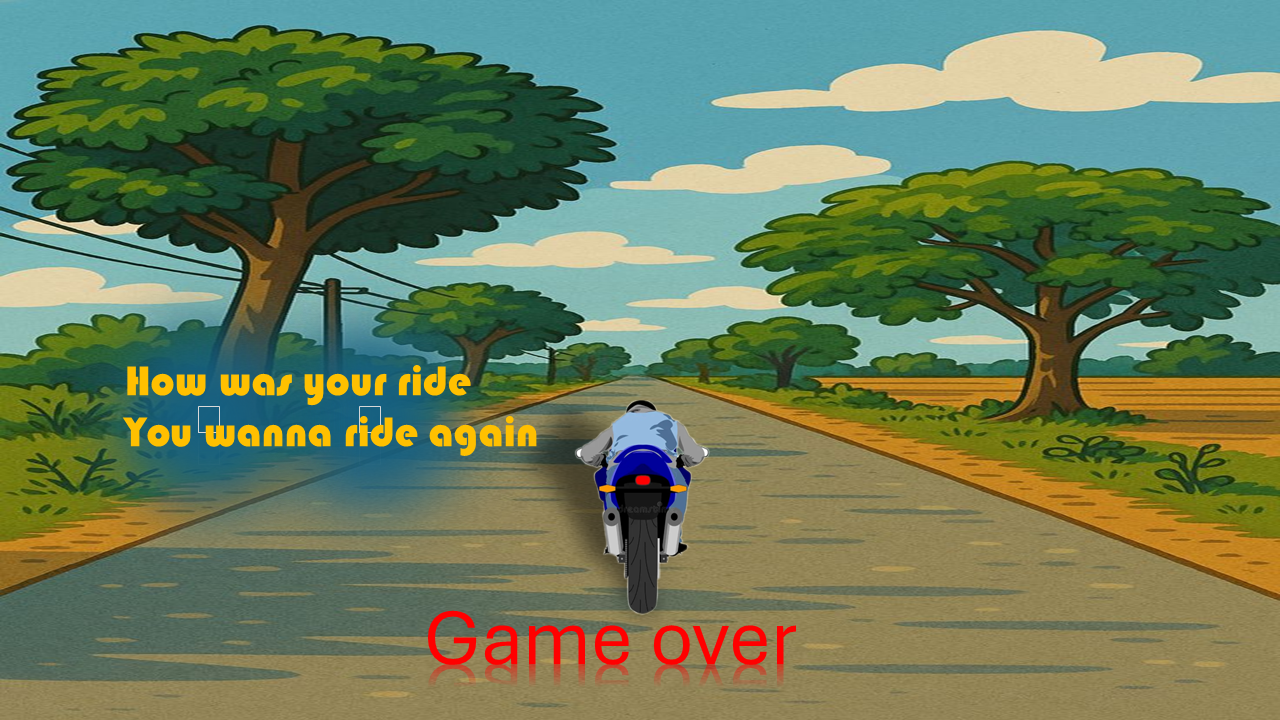
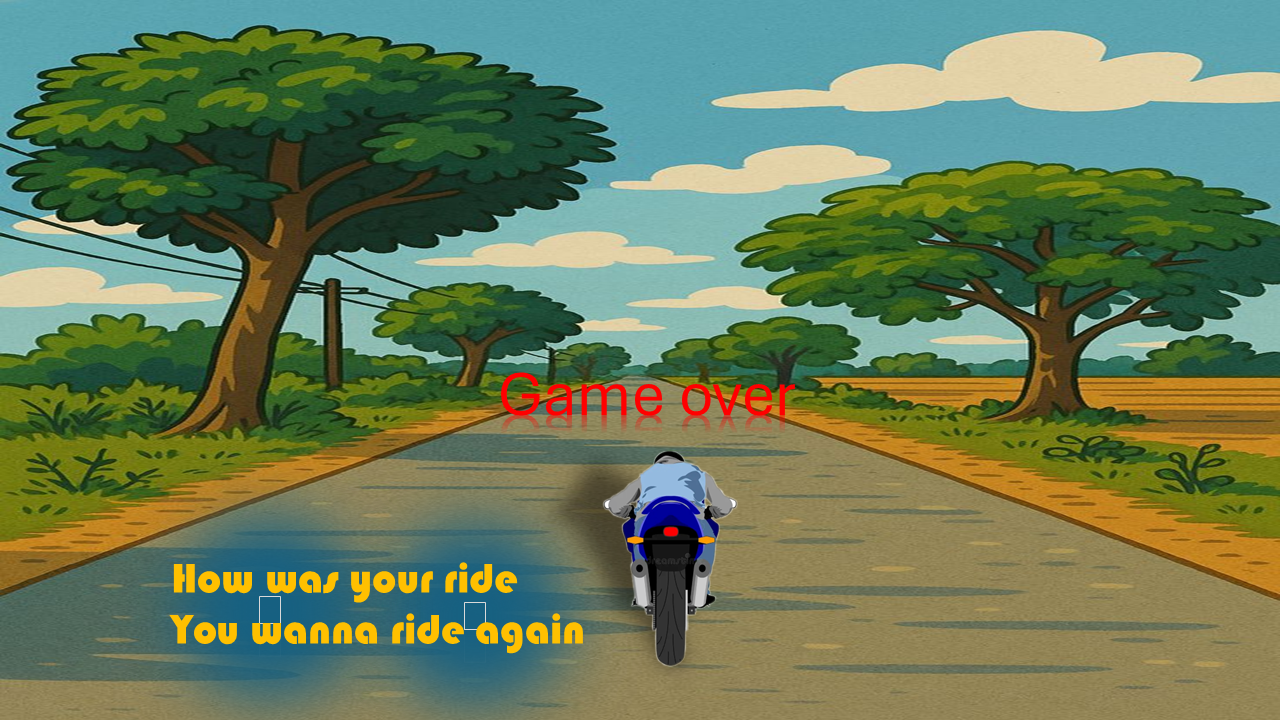
commit5

Changed region(s): [[0.0625, 0.3972, 0.625, 1.0]]

diff --git a/js/main.js b/js/main.js
@@ -7,7 +7,7 @@ const gameOverScreenNode = document.querySelector("#game-over-screen");
 const startBtnNode = document.querySelector("#start-btn");
 
 //game box
-const gameBoxNode = document.querySelector("#game-screen");
+const gameBoxNode = document.querySelector("#game-box");
 
 //global variables
 let gameIntervalId = null;
@@ -15,34 +15,14 @@ let objSpawnIntervalId = null;
 
 const timeRemainingContainer = document.getElementById("timeRemaining");
 
-const timeDuration = 3; // 120 seconds (2 minutes)
+const timeDuration = 30; // 120 seconds (2 minutes)
 
-let bikeObj = null;
+//let bikeObj = null;
 let obstObj = null;
 let ballsObj = null;
 let obstArray = [];
 
 let timer;
-
-function startTimer() {
-  timer = setInterval(function () {
-    // decrease time
-
-    timeObj.timeRemaining--;
-    const minutes = Math.floor(timeObj.timeRemaining / 60)
-      .toString()
-      .padStart(2, "0");
-    const seconds = (timeObj.timeRemaining % 60).toString().padStart(2, "0");
-
-    timeRemainingContainer.innerText = `${minutes}:${seconds}`;
-
-    if (timeObj.timeRemaining <= 0) {
-      timeObj.timeRemaining = 0;
-      clearInterval(timer);
-      gameOver();
-    }
-  }, 1000);
-}
 
 /*function fallBall() {
   /*const obj = document.createElement("div");
@@ -94,7 +74,25 @@ function gameStart() {
 
   objSpawnIntervalId = setInterval(spawnObj, 2000);
 }
+function startTimer() {
+  timer = setInterval(function () {
+    // decrease time
 
+    timeObj.timeRemaining--;
+    const minutes = Math.floor(timeObj.timeRemaining / 60)
+      .toString()
+      .padStart(2, "0");
+    const seconds = (timeObj.timeRemaining % 60).toString().padStart(2, "0");
+
+    timeRemainingContainer.innerText = `${minutes}:${seconds}`;
+
+    if (timeObj.timeRemaining <= 0) {
+      timeObj.timeRemaining = 0;
+      clearInterval(timer);
+      gameOver();
+    }
+  }, 1000);
+}
 //starting the main game interval
 
 //adding the initial elements of the game
@@ -105,15 +103,16 @@ function gameStart() {
 //funtions gameloop
 function gameloop() {
   //bikeObj.bikeSpeed();
-  ballsObj.ballGravity();
+  //ballsObj.ballGravity();
   /*if (ballsObj) {
     ballsObj.ballGravity();
   }*/
-  //obstObj.automaticGravity();
+  obstObj.automaticGravity();
+
   obstArray.forEach((obstObj) => {
     obstObj.automaticGravity();
   });
-  ballsObj.ballGravity();
+  //ballsObj.ballGravity();
 }
 
 //funtions gamespawn
@@ -121,11 +120,11 @@ function spawnObj() {
   // random number between -200 and 0
   const randomPositionY = Math.floor(Math.random() * -200);
 
-  let newObstUp1 = new Obstacle("up1", randomPositionY);
-  obstArray.push(newObstUp1);
+  let newObstUp = new Obstacle("up", randomPositionY);
+  obstArray.push(newObstUp);
 
-  let newObstup2 = new Obstacle("up2", randomPositionY + 30);
-  obstArray.push(newObstup2);
+  let newObstDown = new Obstacle("down", randomPositionY + 340);
+  obstArray.push(newObstDown);
 
   //console.log(tubesArray);
 }
@@ -145,6 +144,16 @@ function gameOver() {
 
 //event listerners
 startBtnNode.addEventListener("click", gameStart);
+
+document.addEventListener("keydown", (e) => {
+  if (e.key === "ArrowLeft") {
+    bikeObj.leftSpeed();
+  }
+
+  if (e.key === "ArrowRight") {
+    bikeObj.rightSpeed();
+  }
+});
 
 /*gameBoxNode.addEventListener("click", () => {
   birdObj.jump();

diff --git a/index.html b/index.html
@@ -9,36 +9,46 @@
   </head>
   <body>
     <!-- START SCREEN -->
-    <div id="start-screen" class="container"><img src="../images/frontstate1.png" alt="logo" class="full-bg"> <button id="start-btn">let's ride!</button>
+    <div id="start-screen" class="container">
+      <img src="../images/frontstate1.png" alt="logo" class="full-bg" />
+      <button id="start-btn">let's ride!</button>
     </div>
     <div id="timeRemaining">Remaining Time: <span>00:00</span></div>
 
     <!-- GAME SCREEN -->
     <!--<div id="game-screen" class="container">
               <div id="game-box">-->
-
+    <!-- GAME SCREEN -->
+    <div id="game-screen">
       <!-- Game elements like score, lifes and other ui elements should be here (inside the game-screen but outside the game-box) -->
 
-      <div class="video-container">
-      <div id="game-screen">
+      <div id="game-box" class="video-container">
         <video id="bg-video" autoplay muted loop>
           <source src="./video/vidtest2.mp4" type="video/mp4" />
         </video>
-      </div>
-
-    
-
-
         <!-- Game elements will be added here via javascript and DOM manipulation -->
-      
-      <!-- <video autoplay muted loop id="bg-video">
+      </div>
+    </div>
+    <!-- Game elements like score, lifes and other ui elements should be here (inside the game-screen but outside the game-box) -->
+
+    <!--<div id="game-screen" class="video-container">
+      <video id="bg-video" autoplay muted loop>
+        <source src="./video/vidtest2.mp4" type="video/mp4" />
+      </video>-->
+
+    <!--<div id="game-box"></div>
+    </div>
+-->
+    <!-- Game elements will be added here via javascript and DOM manipulation -->
+
+    <!-- <video autoplay muted loop id="bg-video">
   <source src="background.mp4" type=".video/vidtest2.mp4">
 </video> -->
-    
 
     <!-- GAME OVER SCREEN -->
     <div id="game-over-screen" class="container">
-      <img src="../images/backstate1.png" alt="logo class?gameover-bg" />
+      <img src="../images/backstate1.png" alt="logo" />
+      <button onclick="location.reload()" id="restart-btn">Restart</button>
     </div>
     <!--
     <div class="video-container">
@@ -52,6 +62,5 @@
     <script src="./js/bike.js"></script>
     <script src="./js/time.js"></script>
     <script src="./js/balls.js"></script>
-
   </body>
 </html>

diff --git a/styles/style.css b/styles/style.css
@@ -1,7 +1,7 @@
 body {
   margin: 0;
-  overflow: hidden;
-  background: skyblue;
+  height: 100%;
+  background-color: skyblue;
 }
 
 #start-btn {
@@ -31,7 +31,7 @@ body {
   z-index: -1;
 }
 
-.full-bg {
+/*.full-bn {
   position: absolute;
   top: 0;
   left: 0;
@@ -39,11 +39,11 @@ body {
   height: 100%;
   object-fit: cover;
   z-index: -1;
-}
+}*/
 
-.video-container video {
-  width: 100%;
-  height: 100%;
+.video-container {
+  width: 100vw;
+  height: 100vh;
   object-fit: cover;
 }
 
@@ -53,17 +53,16 @@ body {
   left: 0;
   width: 100%;
   height: 100%;
-  object-fit: cover; /* fills screen */
-  z-index: -1; /* put behind content */
+  object-fit: cover;
+  z-index: -1;
 }
 
 #game-box {
-  background-image: url("../images/bg1.jpg");
   background-size: cover;
-  width: 600px;
-  height: 400px;
+  width: 100vw;
+  height: 100vh;
 
-  position: relative; /* allows us to position inner elements (absolute) related the the game-box */
+  position: absolute; /* allows us to position inner elements (absolute) related the the game-box */
   overflow: hidden; /* prevents elements to visually exit the game-box */
   user-select: none; /* prevents elements inside the game-box to be highlighted. This improves the user experience for click events on the game-box */
 }

diff --git a/js/bike.js b/js/bike.js
@@ -4,10 +4,10 @@ class Bike {
     this.node.src = "./images/bike1.png";
     gameBoxNode.append(this.node); // adding the node to the game screen
 
-    this.x = 850;
-    this.y = 600;
-    this.width = 240;
-    this.height = 300;
+    this.x = 900;
+    this.y = 700;
+    this.width = 140;
+    this.height = 200;
 
     // initial adjustments of styles
     this.node.style.width = `${this.width}px`;
@@ -16,15 +16,21 @@ class Bike {
     this.node.style.top = `${this.y}px`;
     this.node.style.left = `${this.x}px`;
 
-    this.engineSpeed = 1;
+    this.swerveSpeed = 10;
     //this.rightSwerve = 40;
     //this.leftSwerve = 40
   }
 
-  bikeSpeed() {
-    this.y -= this.engineSpeed;
-    this.node.style.top = `${this.y}px`;
-    //! everytime we adjust a numerical value like y, x, width or height, WE NEED TO ADJUST THE NODE (width, height, top or left)
+  leftSpeed() {
+    this.x -= this.swerveSpeed;
+    this.node.style.left = `${this.x}px`;
+    //! everytime we adjust a numerical value like y, x,
+    // width or height, WE NEED TO ADJUST THE NODE
+    //  (width, height, top or left)
+  }
+  rightSpeed() {
+    this.x += this.swerveSpeed;
+    this.node.style.left = `${this.x}px`;
   }
 
   /*swerveRight() {

diff --git a/js/obst1.js b/js/obst1.js
@@ -1,17 +1,17 @@
 class Obstacle {
-  constructor(type) {
+  constructor(type, yPosition) {
     this.type = type;
 
     this.node = document.createElement("img");
-    if (this.type === "up1") {
+    if (this.type === "up") {
       this.node.src = "./images/obst11.png";
-    } else if (this.type === "up2") {
-      this.node.src = "./images/obst11.png";
+    } else if (this.type === "down") {
+      this.node.src = "./images/obst12.jpg";
     }
     gameBoxNode.append(this.node); // add to game screen
 
     this.x = 500;
-    this.y = 400;
+    this.y = yPosition;
     this.width = 40;
     this.height = 250;
 
@@ -29,7 +29,7 @@ class Obstacle {
   }
 
   automaticGravity() {
-    this.y += this.gravitySpeed;
+    this.x += this.gravitySpeed;
     this.node.style.left = `${this.x}px`;
   }
 }

diff --git a/js/balls.js b/js/balls.js
@@ -14,9 +14,9 @@ class Balls {
     this.node.style.height = `${this.height}px`;
     this.node.style.position = "absolute";
     //this.node.style.top = `${this.y}px`;
-    //this.node.style.left = `${this.x}px`;
+    this.node.style.left = `${this.x}px`;
     this.node.style.top = "60px";
-    this.node.style.left = Math.random() * window.innerWidth + "px";
+    //this.node.style.left = Math.random() * window.innerWidth + "px";
 
     //Random horizontal position
 
